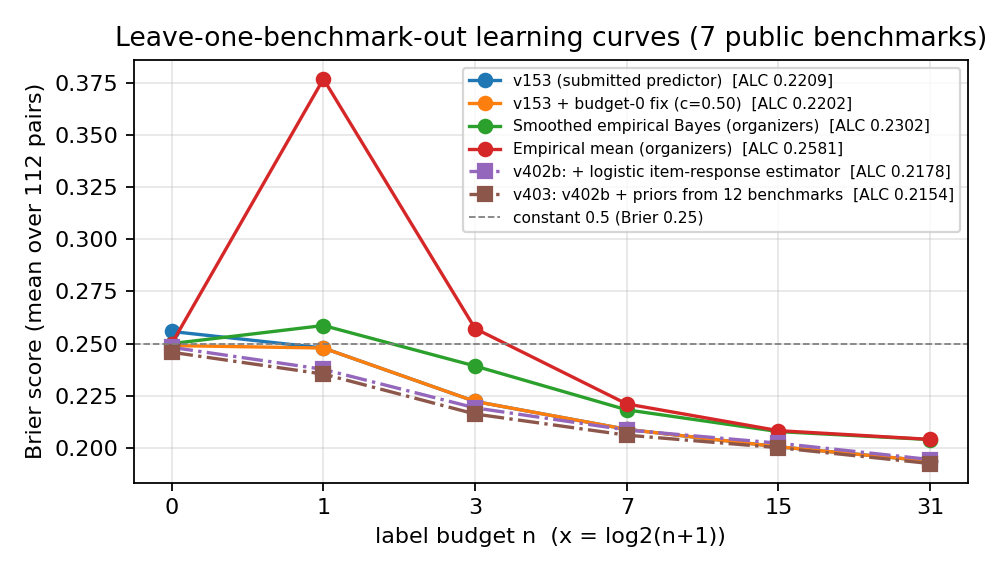
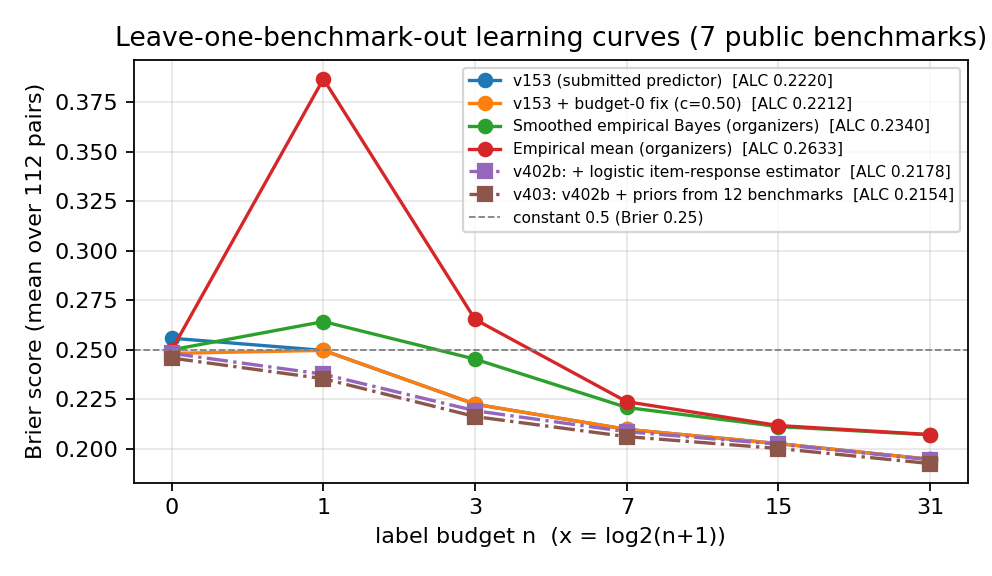
Figure 2 on the exact 112 Table-1 pairs; caption wording; conference ordinal in stand-in style

diff --git a/report.tex b/report.tex
@@ -440,7 +440,7 @@ Development proceeded in generations. Each generation is a batch of submissions 
 \draw[->] (kp) -- (st); \draw[->] (st) -- (rend); \draw[->] (rend) -- (smoke); \draw[->] (smoke) -- (gate);
 \draw[->] (gate) -- (dec); \draw[->] (dec) -- (fb); \draw[->] (fb) -| (kp);
 \end{tikzpicture}
-\caption{The gated revision loop. The student never writes code; every packaged candidate is valid by construction, and only the LOBO gate decides what is uploaded. Verdicts feed the next run.}
+\caption{The gated revision loop. The assistant never writes code; every packaged candidate is valid by construction, and only the LOBO gate decides what is uploaded. Verdicts feed the next run.}
 \label{fig:loop}
 \end{figure}
 
